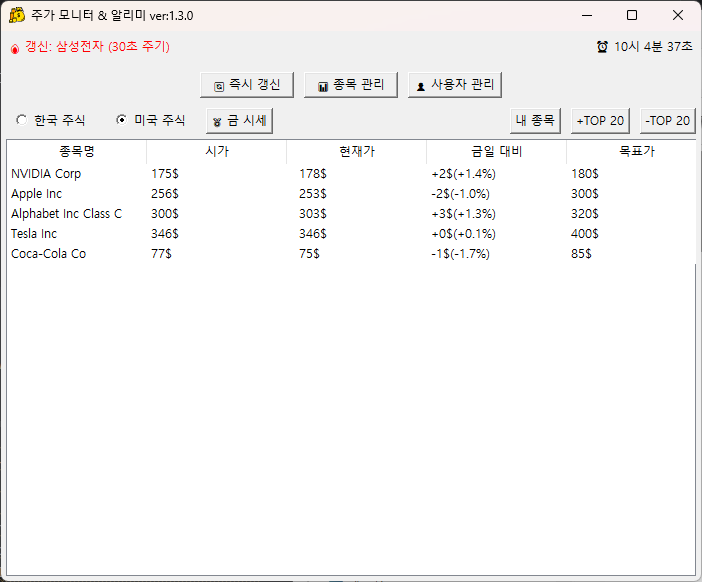
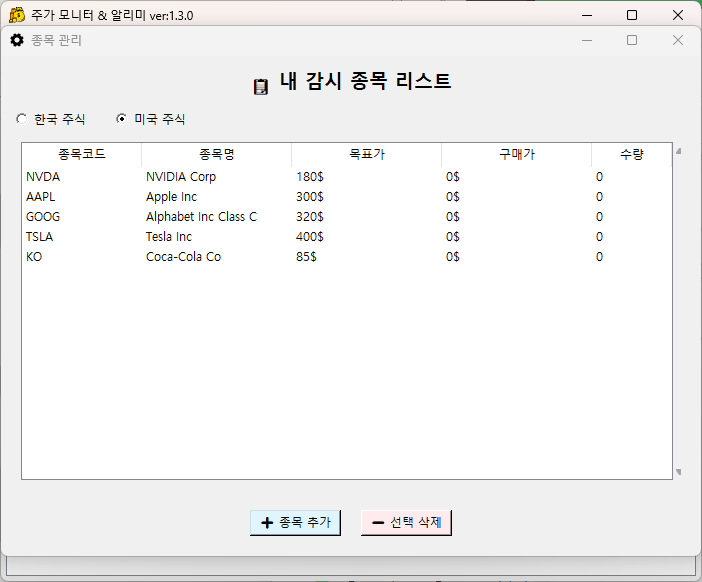
readme 업데이트

diff --git a/ui/ticker_detail.py b/ui/ticker_detail.py
@@ -28,7 +28,7 @@ class CandleCart:
         self.root = app.root
         self.ticker_code, self.ticker_name, self.ticker_open_price, self.ticker_stock_type = item_data['Code'], item_data['Name'], item_data[
             'Open'], item_data['Stock_Type']
-
+        self.ylabel_title = "주가 (KRW)" if self.ticker_stock_type == 0 else "주가 (USD)"
         font_list = fm.findSystemFonts(fontpaths=None, fontext='ttf')
         malgun_bold = [f for f in font_list if 'malgunbd' in f.lower()][0]
         self.font_prop = fm.FontProperties(fname="C:/Windows/Fonts/malgun.ttf", size=10)  # 폰트 속성 생성
@@ -401,7 +401,7 @@ class CandleCart:
                                        returnfig=True, figsize=(7, 5), tight_layout=True, volume=True,
                                        scale_padding=dict(left=1.2, right=1.2, top=1.2, bottom=1.2))
         self.ax = self.axes[0]
-        self.ax.set_ylabel("주가 (KRW)")
+        self.ax.set_ylabel(self.ylabel_title)
         if len(self.axes) > 2:
             vol_ax = self.axes[2]
             vol_ax.set_ylabel("거래량")
@@ -763,7 +763,7 @@ class CandleCart:
 
         # 4. X축 범위를 복구해서 화면이 튕기지 않게 함
         self.ax.set_xlim(cur_xlim)
-        self.ax.set_ylabel("주가 (KRW)")
+        self.ax.set_ylabel(self.ylabel_title)
         if len(self.axes) > 2:
             vol_ax = self.axes[2]
             vol_ax.set_ylabel("거래량")

diff --git a/README.md b/README.md
@@ -56,7 +56,7 @@ AI 감성 분석: Gemini AI를 활용하여 선택한 공시의 내용을 분석
 
 ### 9. 미국 주식 시장
 NASDAQ, NYSE, S&P 500 등 글로벌 시장의 데이터를 추가.
-![종목관리](example/관심_목록_미국.png)
+![종목관리](example/메인_미국_증시.png)
 
 ### 10. 보안 및 환경 설정
 API 키 암호화: 사용자의 API Key(GenAI 등)를 OS 고유 식별자 기반으로 암호화하여 안전하게 관리합니다.
@@ -86,9 +86,5 @@ API 키 암호화: 사용자의 API Key(GenAI 등)를 OS 고유 식별자 기반
 * [NetworkX](https://networkx.org/en/) / [LangChain](https://github.com/langchain-ai/langchain) - 뉴스 키워드 간의 지식 그래프 구축 및 RAG 기반 인과관계 추론(Graph RAG)
 
 ## 향후 개발 계획
-### 글로벌 시장 데이터 커버리지 확대
-* NASDAQ, NYSE, S&P 500 등 글로벌 시장의 데이터를 추가.
-* 통화/환율 분석: 해외 주식 투자 시 필수적인 환율 변동 추이를 차트에 통합 시각화.
-
 ### 모의 투자 지원
-사용자가 직접 자신의 투자 가설과 AI 분석 결과를 검증해 볼 수 있는 가상 환경을 구축합니다.
+* 사용자가 직접 자신의 투자 가설과 AI 분석 결과를 검증해 볼 수 있는 가상 환경을 구축합니다.

diff --git a/CHANGELOG.md b/CHANGELOG.md
@@ -2,18 +2,21 @@
 
 업데이트 내용
 
-## [1.3.0] - 2026-04-07
+## [1.3.0] - 2026-04-13
 ### Added (새로 추가된 기능)
 - 미국 주식 시장 검색, 위시리스트 추가
 
 ### Fixed (버그 수정)
 - 내 주식 목표가 변경후 저장 했을때 재부팅 해야 수정 되는 오류 해결 
+- 주가 분석 결과에 대해 상반된 분석(호재/악재)이 나오던 오류를 문제를 개선해 답변의 신뢰도 상승
+- 다양한 뉴스 플랫폼의 xml구성이 달라 본문을 못찾아 오던 문제 개선
+- 뉴스의 상세 내용을 요청할때 비동기로 처리가 안되어 있던 오류 해결
 
 ### Changed (변경 사항)
 - Database 달러 개념 추가
 - default_tickers_us 테이블 추가
 - tickers 테이블에 나중을 위한 구매, 주식 보유량 관한 정보 컬럼 추가 
-- 주식 진단 메세지 현황 출력 되도록 변경
+- 주식 진단 메세지에 현재 처리 상황이 출력 되도록 변경
 
 ## [1.2.0] - 2026-04-02
 ### Added (새로 추가된 기능)
